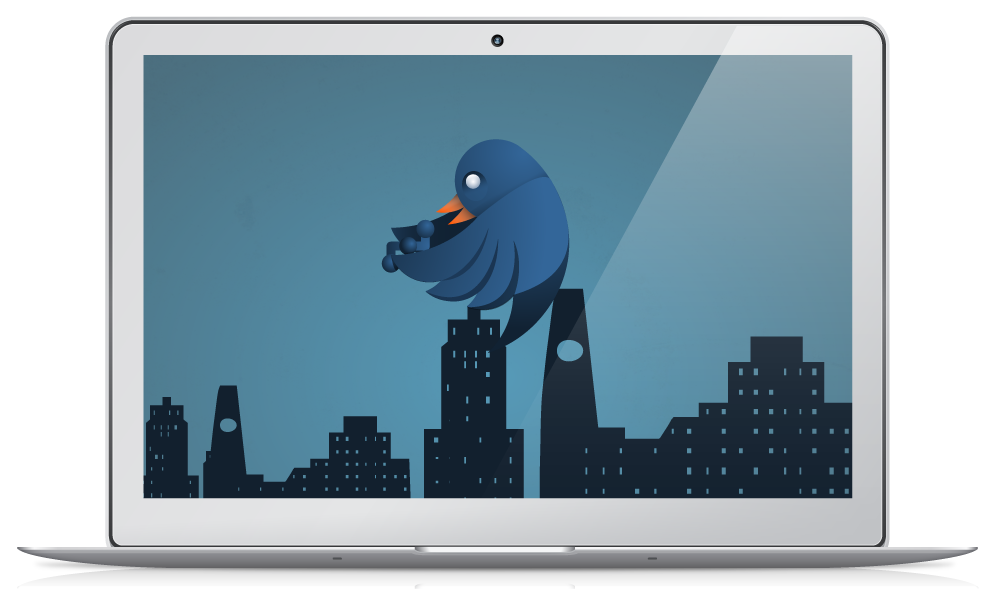
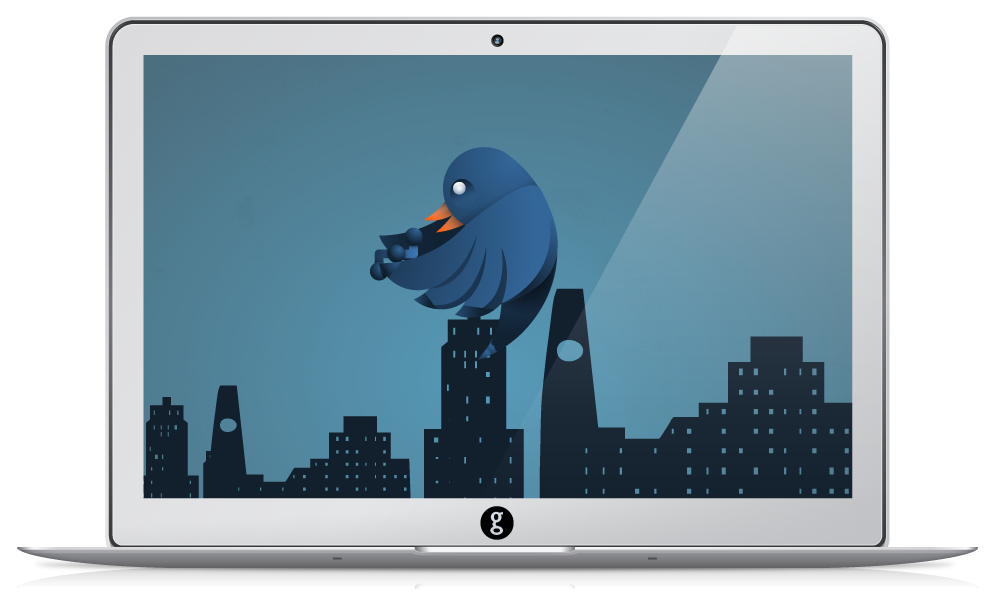
- Demo Styling Updates - Script Updates - New README Instructions - New Demo BG

Changed region(s): [[0.3636, 0.2184, 0.5758, 0.5928], [0.4848, 0.8112, 0.5455, 0.9048]]

diff --git a/css/main.css b/css/main.css
@@ -95,22 +95,21 @@ textarea {
    Globals
    ========================================================================== */
 
-
 body {
-    /*background: url(../img/dark_mosaic.png) top left repeat;*/
-    background: #224466;
+    background: #00384f;
     color: #f9f9f9;
 
     font: normal normal 100%/1.5 "Helvetica Neue", sans-serif;
 }
 
 .container {
-    background: url(../img/twit-bg.png) 50% 0% no-repeat;
-    max-width: 50em;
-    height: 800px;
-    margin: 1.5em auto;
-    padding: 0 5%;
+    height: 50em;        /* 50em * 16px = 800px */
+    margin: 0 auto;
+    max-width: 50em;     /* 50em * 16px = 800px */
+    padding: 1.5em 10em; /* 160px / 16px = 10em */
     position: relative;
+
+    background: url(../img/twit-bg.png) 50% 15% no-repeat;
 }
 
 
@@ -120,14 +119,14 @@ body {
 
 .title-header {
     margin: 0 auto;
-    width: 50em;
     position: absolute;
-    bottom: 0px;
+    bottom: 1.875em; /* 30px / 16px = 1.875em */
+    width: 50em; /* 50em * 16px = 800px */
 }
 
 .title {
+    height: 4.0625em; /* 130px / 32px = 4.0625em */
     width: 100%;
-    height: 130px;
 
     background: url(../img/twit-logo.png)  200px 0 no-repeat;
 
@@ -136,11 +135,12 @@ body {
 }
 
 .tagline {
-    color: #175e8b;
+    color: #3f8098;
 
     font-size: .875em;
     text-align: center;
-    text-shadow: 
+    text-shadow: 0 -1px 0px rgba(0, 0, 0, 0.6),
+                 0  1px 1px rgba(255, 255, 255, 0.15);
 }
 
 
@@ -149,7 +149,7 @@ body {
    ========================================================================== */
 
 /*
- * Here are the blank classes
+ * Here are the classes
  * we use for customizing
  * beyond the demo styles
 
@@ -172,15 +172,18 @@ body {
  *
  */
 
+/* General Markup Styling
+ ======================== */
+
 #twit-container {
     border-radius: 12px;
     box-shadow: 1px 1px 4px rgba(0, 0, 0, 0.18);
-    min-height: 128px;
-    margin-left: 56px;
-    margin-top: 64px;
-    padding: 2px;
+    min-height: 8em;     /* 128px / 16px = 8em */
+    margin-left: 3.5em;  /* 56px / 16px = 3.5em */
+    margin-top: 4.625em; /* 74px / 16px = 4.625em */
+    padding: 0.125em;    /* 2px / 16px = 0.125em */
     position: absolute;
-    width: 256px;
+    width: 16em; /* 256px / 16px = 16em */
 
     background: #88b7d5;
     background: rgba(117, 176, 207, 0.5);
@@ -202,13 +205,13 @@ body {
     border-left-color: #185b86;
     border-left-color: rgba(117, 176, 207, 0.5);
     border-width: 20px;
-    top: 50%;
     margin-top: -20px;
+    top: 65%;
 }
 
 #twitter_update_list {
     list-style-type: none;
-    max-width: 40em;
+    max-width: 40em; /* 40em * 16px = 640px */
     padding: 0 5%;
 
     font-size: .875em;
@@ -217,6 +220,24 @@ body {
 #twitter_feed {
     display: inline-block;
     margin-bottom: 1.5em;
+}
+
+
+/* Helper Module Classes
+ ======================== */
+
+.twit-loader {
+    box-shadow: inset 1px 1px 0px rgba(0,0,0,.5),
+                inset -1px -1px 0px rgba(255,255,255,.4);
+    border-radius: 4px;
+    display: inline-block;
+    padding: .25em;
+    position: absolute;
+    top: 40%;
+    left: 45%;
+
+    background: #10293b;
+    background: rgba(10, 37, 51, 0.25);
 }
 
 .twit .link,
@@ -237,16 +258,16 @@ body {
    ========================================================================== */
 
 footer {
-    padding-top: 800px;
+    padding-top: 33.3333333333333em; /* 800px / 24 = 33.3333333333333em */
 
-    color: #cdcfd1;
+    color: #efefef;
 
     text-align: center;
     font-size: 1.5em;
 }
 
 footer small {
-    font-size: .5em;
+    font-size: .375em;
 }
 
 footer p {
@@ -259,11 +280,13 @@ footer p {
    ========================================================================== */
 
 .copyright {
-    border-top: .0675em solid #185d89;
+    border-top: .0675em solid #15496b;
     box-shadow: 0 -1px 0px #000;
 }
 
 .footer-entity {
-    color: #185d89;
-    text-shadow: 0 -1px 0px rgba(255,255,255,.3), 0 1px 0px rgba(0,0,0,.5);
+    color: #3f788d;
+
+    text-shadow: 0   1px 0px rgba(255,255,255,.3),
+                 0  -1px 0px rgba(0,0,0,.5);
 }

diff --git a/js/twit.js b/js/twit.js
@@ -31,10 +31,10 @@ function replaceReply(reply) {
 // Twit Time Stamp
 function relative_time(time_value) {
 
-    var values    = time_value.split(" "),
+    var values      = time_value.split(" "),
         parsed_date = new Date(),
-        months    = new Array('Jan', 'Feb', 'Mar', 'Apr', 'May', 'Jun', 'Jul', 'Aug', 'Sep', 'Oct', 'Nov', 'Dec'),
-        m         = parsed_date.getMonth(),
+        months      = new Array('Jan', 'Feb', 'Mar', 'Apr', 'May', 'Jun', 'Jul', 'Aug', 'Sep', 'Oct', 'Nov', 'Dec'),
+        m           = parsed_date.getMonth(),
         postedAt    = '';
 
     time_value = values[1] + " " + values[2] + " " + values[5] + " " + values[3];
@@ -50,7 +50,7 @@ function relative_time(time_value) {
 
 // Load Twit
 window.onload = function() {
-    var ajax_load        = "<img class='twit-loader' src='img/loading.gif' alt='Loading...'>",
+    var ajax_load            = "<img class='twit-loader' src='img/loading.gif' alt='Loading...'>",
         twitter_preferences  = {
             count    : 1,
             username : 'gryghostvisuals'

diff --git a/README.md b/README.md
@@ -1,15 +1,15 @@
 # twit v0.0.3
+Your Custom Twitter Widget : "Embed Tweets The Right Way"
 =====================================================================================
 
 ## DEMO
 * [http://grayghostvisuals.koding.com/twit](http://grayghostvisuals.koding.com/twit)
 
-## ABOUT
-Your Custom Twitter Widget : "Embed Tweets The Right Way"
-
 [![http://grayghostvisuals.koding.com/twit](http://static.grayghostvisuals.com/github/twit.png)](http://grayghostvisuals.koding.com/twit)
 
+
 ## TWIT'S RECIPE
+### <code>index.html</code>
 <pre>
 <code>
 &lt;head&gt;
@@ -18,7 +18,7 @@ Your Custom Twitter Widget : "Embed Tweets The Right Way"
 &lt;script&gt;window.jQuery || document.write(&#39;&lt;script src=&quot;js/vendor/jquery-1.8.0.min.js&quot;&gt;&lt;\/script&gt;&#39;)&lt;/script&gt;
 
 &lt;!-- Twit --&gt;
-&lt;script src=&quot;js/minified/twit-min.js&quot; async&gt;&lt;/script&gt;
+&lt;script src=&quot;js/twit.js&quot; async&gt;&lt;/script&gt;
 &lt;/head&gt;
 
 &lt;body&gt;
@@ -33,13 +33,45 @@ Your Custom Twitter Widget : "Embed Tweets The Right Way"
 </code>
 </pre>
 
+## USERNAME and TWIT DISPLAY SETUP
+### <code>twit.js</code>
+<pre>
+<code>
+// Load Twit
+window.onload = function() {
+    var ajax_load            = &quot;&lt;img class=&#39;twit-loader&#39; src=&#39;img/loading.gif&#39; alt=&#39;Loading...&#39;&gt;&quot;,
+        twitter_preferences  = {
+            count    : [number_of_twits_goes_here],
+            username : &#39;[username_goes here]&#39;
+        },
+        twitterUrl = &#39;http://twitter.com/statuses/user_timeline.json?screen_name=&#39;   twitter_preferences.username   &#39;&amp;callback=twitterCallback&amp;count=&#39;   twitter_preferences.count,
+        script     = document.createElement(&#39;script&#39;);
+
+    $(&quot;#twitter_feed&quot;).html(ajax_load);
+
+    script.setAttribute(&#39;src&#39;, twitterUrl);
+    script.setAttribute(&#39;async&#39;, true);
+
+    document.body.appendChild(script);
+};
+</code>
+</pre>
+
+
 ## GOTCHYAS
-* Unauthenticated Twitter API calls are permitted 150 requests per hour [https://dev.twitter.com/docs/rate-limiting](https://dev.twitter.com/docs/rate-limiting)
+Unauthenticated Twitter API calls are permitted 150 requests per hour [https://dev.twitter.com/docs/rate-limiting](https://dev.twitter.com/docs/rate-limiting)
+
+
+## IN THE PIPELINE
+1. jQuery Plugin &rarr; checkout our [jQueryPlugin feature branch](https://github.com/grayghostvisuals/twit/tree/feature/jQueryPlugin)
+
+2. Due to unauthenticated Twitter API requests being limited to 150 per hour we're working out a way to cache them properly. Feel free to chime in if you have a better way or are great with Twitter's oAuth (350 per hour)
+
 
 ## CONTRIBUTORS
-We would like to thank the following contributors and their awesome-nesses
+We would like to thank the following contributors and their awesome-nesses...
 
-* &#10026; [Tim Pietrusky](https://github.com/TimPietrusky)
+&#10026; [Tim Pietrusky](https://github.com/TimPietrusky)
   1. JSHint corrections (twit.js)
   2. Callback Function Rewrites (twit.js)
   3. Twitter API Unauthenticated calls research
